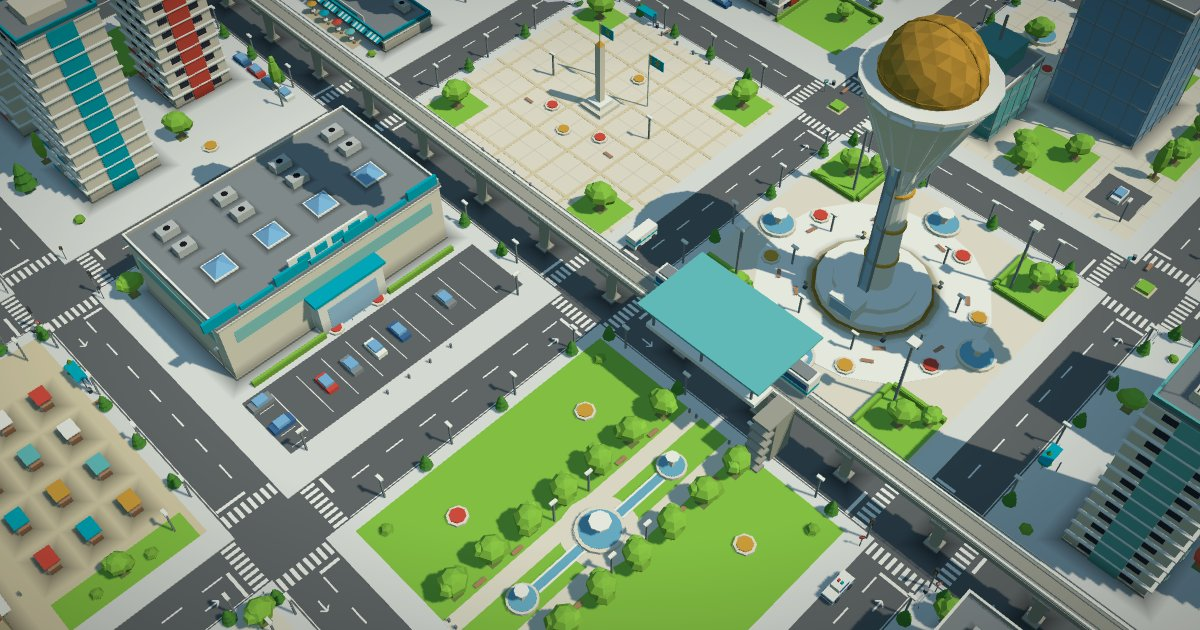
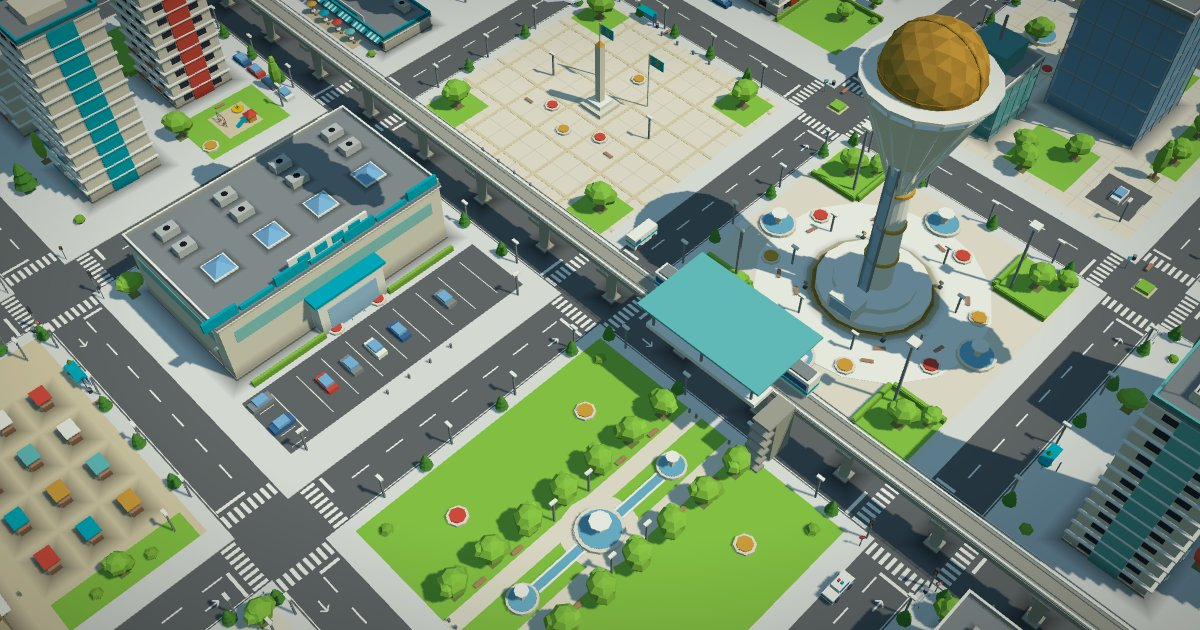
test(look): courtyard QA — close-ups at all four rotations show the playground with the slide towards the camera, start-frame green over 12 seeds 14.9% -> 15.2% (reference 15.7%), 18 of 20 baselines changed only in residential yards and the trees that moved round the playground, e2e 37/37, perf 324,

Changed region(s): [[0.1542, 0.1206, 0.2467, 0.2714]]

diff --git a/.kiro/specs/astana-infinite-city/requirements.md b/.kiro/specs/astana-infinite-city/requirements.md
@@ -4,7 +4,7 @@
 
 - **Feature Name**: Astana Infinite City (рабочее название проекта — `infcity`)
 - **Version**: 1.1 (Approved 2026-09-17; итерация 2 от 2026-09-17 по обратной связи пользователя: FR-14 → Must, добавлены FR-15, FR-16, `bugfix.md`)
-- **Status (2026-09-23)**: FR-1…FR-19 реализованы. Итерация 5 (полировка картинки до уровня референса, FR-19) закрыта 2026-09-23: запечённый AO у подножия (стены и ореолы в вершинных цветах), гранёное затенение, тон кадра по оракулу Ламберта (экспозиция ×1,25, светлые тротуары, сочный газон), окна отдельными проёмами, тёмные крыши с цветным парапетом, мощение площадей; волна 2 — облака растворяются у низкой камеры с сохранением теней, серая кровля как у референса, AO стадиона, лотков и опор ЛРТ; волна 3 — открытая чаша стадиона с ярусами и разметкой поля. BUG-10 (2026-09-23): LOD слоя деталей снят по решению пользователя — детали и их тени видны всегда; бюджет возвращён делением статики по солнцу (design D20) без изменения теней; волна 4 — AO контакта у 11 ландмарков, BUG-11 — свод рынка; волна 5 — навесной фасад стеклянных башен и AO Байтерека; визуальный обход — BUG-12, BUG-13 (ТЦ фасадом к камере); волна 6 — полосатые наклонные маркизы и кафе-террасы коммерческих кварталов; волна 7 — белые мягкие облака (свечение материала, 0 треугольников); волна 8 — тёмное стекло окон и витрин (ключ палитры `window`); волна 9 — кровли ТЦ с рядами кондиционеров и фонарями; волна 10 — кондиционеры на кровлях торговых рядов и учебных корпусов; волна 11 — пояса-плиты на фасадах новостроек; волна 12 — AO русла (стенки набережных и полосы на воде); волна 13 — газонные острова с деревьями на деловой площади; волна 14 — газонные полосы с деревьями по краям рынка. FR-20 (2026-09-24): сквер между стартовыми ландмарками — центр старта всегда парк, `GEN.VERSION` 4; он построен бульваром Нуржол (FR-20.4), зелень стартового кадра по 12 seed — 14,9 %. Волна 15 (2026-09-25): пешеходные «зебры» во всю ширину улиц с четырёх сторон перекрёстков, машины встают перед стоп-линией, а не на зебре. Волна 16 — карточка ссылки (Open Graph, кадр 1200 × 630) и значок-Байтерек у вкладки. Кадр — пик 324…338 тыс. треугольников из 400 000 (NFR-1; разброс — от маршрута замера) и 125…127 draw calls из 300 (после волны 15 — 327 тыс. и 125), медианный FPS 101…108 (за вечер 79…140, 2026-09-25 — 45…49 у старого и нового кода — окружение: headless Chrome на Intel UHD, A/B старого и нового кода в пределах разброса); unit 403, e2e 37/37; замер пикселей: газон на свету 173 против 177 у референса, тротуар 214 против 218…233. Итерация 4 (бюджет кадра, улицы, фасады) закрыта 2026-09-19. Evidence по каждому AC — `qa-evidence.md`. Открытые ручные проверки: AC-4.3 (узнаваемость, 5 респондентов), замер FPS на телефоне (NFR-1).
+- **Status (2026-09-23)**: FR-1…FR-19 реализованы. Итерация 5 (полировка картинки до уровня референса, FR-19) закрыта 2026-09-23: запечённый AO у подножия (стены и ореолы в вершинных цветах), гранёное затенение, тон кадра по оракулу Ламберта (экспозиция ×1,25, светлые тротуары, сочный газон), окна отдельными проёмами, тёмные крыши с цветным парапетом, мощение площадей; волна 2 — облака растворяются у низкой камеры с сохранением теней, серая кровля как у референса, AO стадиона, лотков и опор ЛРТ; волна 3 — открытая чаша стадиона с ярусами и разметкой поля. BUG-10 (2026-09-23): LOD слоя деталей снят по решению пользователя — детали и их тени видны всегда; бюджет возвращён делением статики по солнцу (design D20) без изменения теней; волна 4 — AO контакта у 11 ландмарков, BUG-11 — свод рынка; волна 5 — навесной фасад стеклянных башен и AO Байтерека; визуальный обход — BUG-12, BUG-13 (ТЦ фасадом к камере); волна 6 — полосатые наклонные маркизы и кафе-террасы коммерческих кварталов; волна 7 — белые мягкие облака (свечение материала, 0 треугольников); волна 8 — тёмное стекло окон и витрин (ключ палитры `window`); волна 9 — кровли ТЦ с рядами кондиционеров и фонарями; волна 10 — кондиционеры на кровлях торговых рядов и учебных корпусов; волна 11 — пояса-плиты на фасадах новостроек; волна 12 — AO русла (стенки набережных и полосы на воде); волна 13 — газонные острова с деревьями на деловой площади; волна 14 — газонные полосы с деревьями по краям рынка. FR-20 (2026-09-24): сквер между стартовыми ландмарками — центр старта всегда парк, `GEN.VERSION` 4; он построен бульваром Нуржол (FR-20.4), зелень стартового кадра по 12 seed — 14,9 %. Волна 15 (2026-09-25): пешеходные «зебры» во всю ширину улиц с четырёх сторон перекрёстков, машины встают перед стоп-линией, а не на зебре. Волна 16 — карточка ссылки (Open Graph, кадр 1200 × 630) и значок-Байтерек у вкладки. Волна 17 — детские площадки во дворах (домик с горкой, качели, карусель) и газон во дворе новостройки; зелень стартового кадра — 15,2 %. Кадр — пик 324…338 тыс. треугольников из 400 000 (NFR-1; разброс — от маршрута замера) и 125…127 draw calls из 300 (после волны 17 — 324 тыс. и 126), медианный FPS 101…108 (за вечер 79…140, 2026-09-25 — 45…49 у старого и нового кода — окружение: headless Chrome на Intel UHD, A/B старого и нового кода в пределах разброса); unit 408, e2e 37/37; замер пикселей: газон на свету 173 против 177 у референса, тротуар 214 против 218…233. Итерация 4 (бюджет кадра, улицы, фасады) закрыта 2026-09-19. Evidence по каждому AC — `qa-evidence.md`. Открытые ручные проверки: AC-4.3 (узнаваемость, 5 респондентов), замер FPS на телефоне (NFR-1).
 - **Date**: 2026-09-17
 - **Author**: Dex719
 - **Stakeholders**: автор проекта (владелец продукта и разработчик); зрители демо

diff --git a/.kiro/specs/astana-infinite-city/qa-evidence.md b/.kiro/specs/astana-infinite-city/qa-evidence.md
@@ -418,6 +418,16 @@ Unit 339 (33 файла), e2e 35/35, медианный FPS 140.
 - **Кадр карточки.** В стартовом кадре шар Байтерека срезан верхним краем (и в эталоне `astana-start`). Варианты сдвига вида: 70 px — видна чаша, 170 и 205 — шар касается края, 290 — Байтерек целиком с полем над шаром, под ним бульвар Нуржол с тремя фонтанами. Выбран сдвиг 290. Значок в 32 px читается: золотой шар на белом стволе над газоном.
 - **Регрессия.** e2e 37/37 без перезаписи эталонов — кадр не изменился; perf 327 624 / 126, FPS 42 (окружение, как в волне 15). Unit 403. Карточка заработает в мессенджерах после публикации на Pages: адрес картинки ведёт туда.
 
+### Волна 17 (2026-09-25): дворы
+
+- **Разрыв.** Двор новостройки был пустым светлым мощением вокруг трёх башен, газон — только в юго-восточном углу. Детская площадка панельного двора — три коробки на песке, в кадре она читалась как мусор.
+- **AC-19.30, площадка** — `tests/scene/props.test.ts`. Песок 7 × 7, вся геометрия в пределах площадки и не выше 2,6. На месте домик с крышей-пирамидой, горка от домика до земли, 2 стойки качелей с перекладиной, 2 сиденья и карусель; 6 цветов, 339 вершин. При `facing` −1 площадка зеркальна по Z.
+- **AC-19.30, двор** — `tests/scene/layout.test.ts`. Для каждой новостройки окна 21 × 21 газон лежит мимо башен с ореолами AO и машин, площадка — мимо клумбы и фонарей, кроны случайных деревьев — не над площадкой, горка — к видимой стороне квартала, квартал ≤ 7 000 вершин. Перебор 4 сида × 61²: новостройка — максимум 6 563 (2 129 кварталов), панельный — 6 494 (1 041).
+- **Кадр.** Первый крупный кадр при повороте 2 показал горку за домиком — синюю полоску, закрытую крышей. Теперь горка всегда съезжает к видимой стороне квартала (D13) и в кадре целиком. Обход новостройки при 4 поворотах: при поворотах 1 и 2 газон с площадкой хорошо виден; при повороте 0 квартал этого сида закрыт шаром Байтерека, при 3 площадка за башнями. В панельном дворе площадка стоит на прежнем месте, в центре двора, поэтому часть поворотов закрывают дома.
+- **Зелень стартового кадра.** По 12 seed — 15,2 % в среднем (было 14,9 %), худший 10,0 %; у референса 15,7 %.
+- **Эталоны.** Изменились 18 кадров из 20 (0,1…1,5 % пикселей): дворы новостроек и деревья, пересевшие из-за обхода площадки. Карта различий стадиона — двор новостройки и три дерева, остальное без изменений. В двух кадрах изменилось 14–15 пикселей на рёбрах.
+- **Perf.** e2e 37/37: 324 415 треугольников / 126 draw calls / 105 FPS — FPS вернулся к вчерашнему, провал утра был в окружении. Карточка `og.jpg` пересобрана: в её левом верхнем углу теперь двор с площадкой. Unit 408.
+
 ### Не закрыто (кандидаты следующей волны)
 
 - Горизонт на ближнем зуме: у референса камера у земли смотрит к горизонту — видны небо и дымка над дальними кварталами. У нас минимальная высота 60 (выше всех зданий, BUG-1) при угле обзора 30°: верхний луч кадра — на 13° ниже горизонта; чтобы показать горизонт, камеру пришлось бы отнести примерно на 300, и центр кадра ушёл бы в туман (225…325). Это переделка камеры, тумана и бюджета окна — решение за пользователем.

diff --git a/.kiro/specs/astana-infinite-city/tasks.md b/.kiro/specs/astana-infinite-city/tasks.md
@@ -820,11 +820,12 @@
   - Acceptance: AC-19.30; снапшоты генератора без изменений
   - Факт: `Props.playground(x, z, facing)` — песок, домик `gold` с крышей-пирамидой `accent-red`, горка `flag-blue`, качели `steel` с сиденьями `accent-red`, карусель `yellow`; 339 вершин. `NEW_BUILD_YARD` — газон 12 × 16 у юго-западного края двора новостройки, площадка (−17; 12) и скамейка; случайные деревья обходят площадку с запасом 3,3. Горка — к видимой стороне квартала (`visibleZ(hidden)`): первый крупный кадр при повороте 2 показал её за домиком. Перебор 4 сида × 61²: новостройка — максимум 6 563 из 7 000 (2 129 кварталов), панельный — 6 494 (1 041). Тесты: площадка (пределы, высота, элементы, зеркало при −1) и двор новостройки (газон мимо башен с ореолами и машин, площадка мимо клумбы и фонарей, кроны деревьев не над площадкой, ≤ 7 000); unit 408/408
 
-- [ ] **TSK-166**: QA волны 17
+- [x] **TSK-166**: QA волны 17
   - Requirement: FR-19.8, FR-19.9
   - Depends on: TSK-165
   - Deliverables: крупные кадры дворов (панельный и новостройка, 4 поворота), замер зелени, эталоны, e2e, perf, qa-evidence, README
   - Acceptance: unit и e2e зелёные; пик ≤ 400 000 треугольников, ≤ 300 draw calls
+  - Факт: крупные кадры дворов при 4 поворотах — площадка читается, горка к камере; зелень стартового кадра 14,9 → 15,2 %; эталоны — изменились 18 кадров только во дворах; e2e 37/37, perf 324 415 / 126 / 105 FPS; `og.jpg` пересобрана; unit 408/408
 
 #### BUG-10 (2026-09-23): «убери оптимизацию — тени и объекты появляются»
 
@@ -1092,6 +1093,6 @@ graph TD
 | TSK-163 | Complete | 2026-09-25: Open Graph, значки, `theme-color`; unit 403/403 |
 | TSK-164 | Complete | 2026-09-25: QA волны 16 — e2e 37/37, эталоны без изменений |
 | TSK-165 | Complete | 2026-09-25: детская площадка и газон двора новостройки; unit 408/408 |
-| TSK-166 | Pending | |
+| TSK-166 | Complete | 2026-09-25: QA волны 17 — зелень 15,2 %, e2e 37/37, perf 324 415 / 126 / 105 FPS |
 
 **Статусы:** Pending / In Progress / Complete. Обновлять вместе с чекбоксами.
